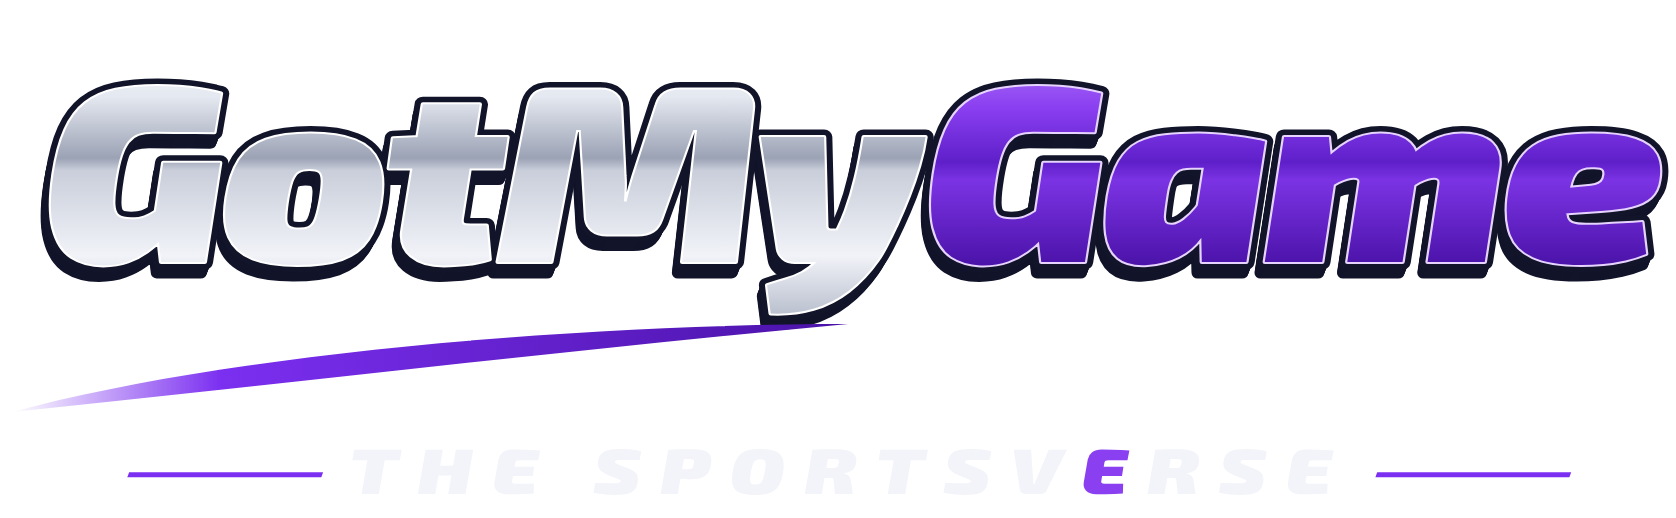
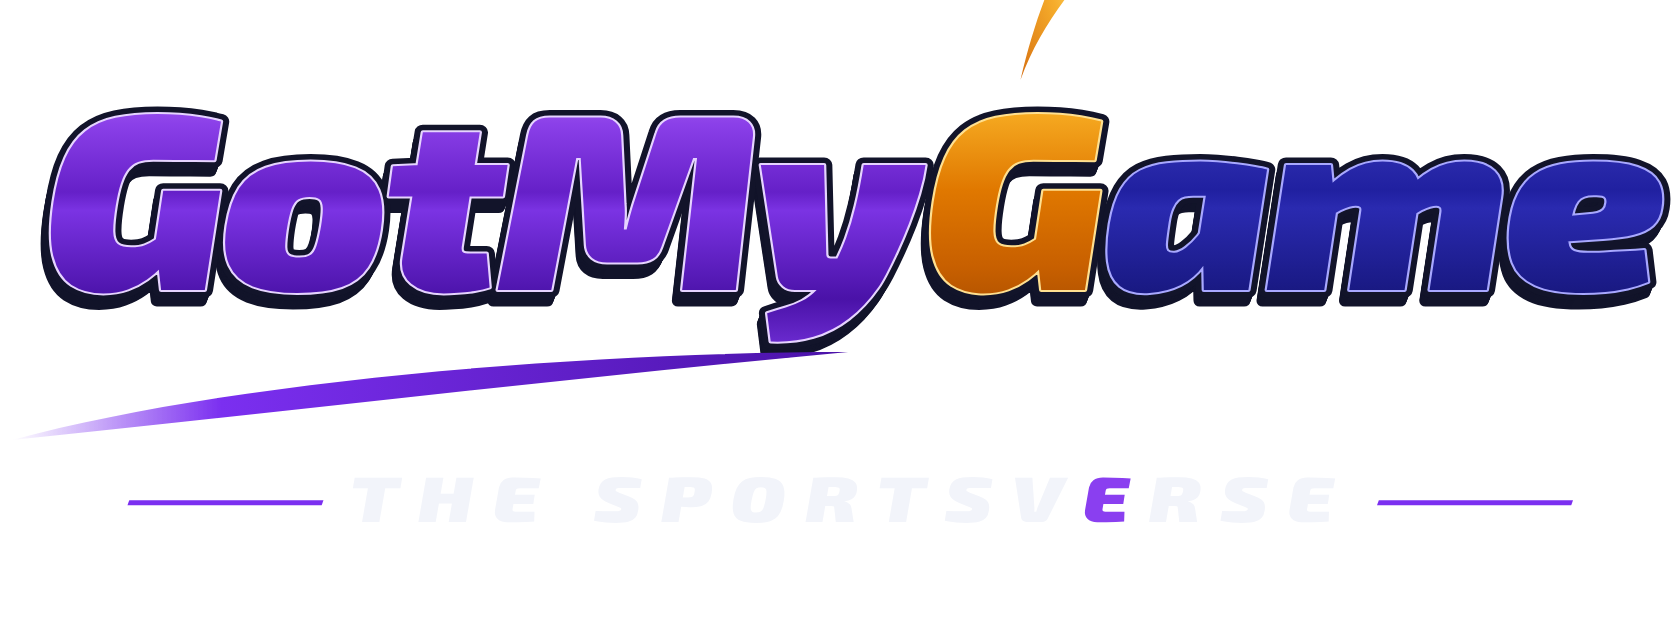
feat(brand): update GotMyGame wordmark to new brand palette
Replace silver-chrome "GotMy" + purple "Game" with the new palette:
purple "GotMy", amber/gold "G" with flame swoosh, deep indigo "ame".
Regenerates wordmark.png, wordmark-tagline.png and wordmark-tagline-dark.png
in both apps/app/assets/brand and apps/api/assets/brand.

Claude-Session: https://claude.ai/code/session_018FMP3LekTxaDrMcnwMMPbx

diff --git a/scripts/brand/wordmark.html b/scripts/brand/wordmark.html
@@ -6,16 +6,30 @@ text{font-family:'Exo2Black';font-weight:900;font-style:normal}
 </style></head><body>
 <svg id="s" xmlns="http://www.w3.org/2000/svg" width="1800" height="620" viewBox="0 0 1800 620">
 <defs>
- <linearGradient id="silver" x1="0" y1="0" x2="0" y2="1">
-  <stop offset="0" stop-color="#FFFFFF"/><stop offset=".28" stop-color="#E4E8F0"/><stop offset=".48" stop-color="#9BA2B4"/>
-  <stop offset=".52" stop-color="#C9CEDA"/><stop offset=".8" stop-color="#F1F3F8"/><stop offset="1" stop-color="#B8BECD"/>
- </linearGradient>
+ <!-- Purple gradient for "GotMy" -->
  <linearGradient id="purple" x1="0" y1="0" x2="0" y2="1">
-  <stop offset="0" stop-color="#C79BFF"/><stop offset=".32" stop-color="#8A3FF0"/><stop offset=".5" stop-color="#5E1FC9"/>
+  <stop offset="0" stop-color="#C97EFF"/><stop offset=".28" stop-color="#8A3FE8"/><stop offset=".5" stop-color="#6520C8"/>
   <stop offset=".56" stop-color="#7B33E3"/><stop offset=".85" stop-color="#4A12A8"/><stop offset="1" stop-color="#6B2BD0"/>
  </linearGradient>
- <linearGradient id="side" x1="0" y1="0" x2="0" y2="1"><stop offset="0" stop-color="#4B5066"/><stop offset="1" stop-color="#1B1E30"/></linearGradient>
+ <!-- Amber/gold gradient for "G" -->
+ <linearGradient id="amber" x1="0" y1="0" x2="0" y2="1">
+  <stop offset="0" stop-color="#FFE066"/><stop offset=".25" stop-color="#F5A820"/><stop offset=".5" stop-color="#E07800"/>
+  <stop offset=".75" stop-color="#C86000"/><stop offset="1" stop-color="#A04800"/>
+ </linearGradient>
+ <!-- Deep indigo gradient for "ame" -->
+ <linearGradient id="indigo" x1="0" y1="0" x2="0" y2="1">
+  <stop offset="0" stop-color="#6668D8"/><stop offset=".28" stop-color="#3535B8"/><stop offset=".5" stop-color="#2020A0"/>
+  <stop offset=".56" stop-color="#2A2AB0"/><stop offset=".85" stop-color="#181880"/><stop offset="1" stop-color="#222298"/>
+ </linearGradient>
+ <!-- Side extrusions -->
  <linearGradient id="pside" x1="0" y1="0" x2="0" y2="1"><stop offset="0" stop-color="#4A1AA0"/><stop offset="1" stop-color="#1E0B55"/></linearGradient>
+ <linearGradient id="aside" x1="0" y1="0" x2="0" y2="1"><stop offset="0" stop-color="#8B5000"/><stop offset="1" stop-color="#3D2000"/></linearGradient>
+ <linearGradient id="iside" x1="0" y1="0" x2="0" y2="1"><stop offset="0" stop-color="#1A1A70"/><stop offset="1" stop-color="#0A0A3A"/></linearGradient>
+ <!-- Flame gradient (radial, centre bright) -->
+ <radialGradient id="flame" cx="0.4" cy="0.6" r="0.6">
+  <stop offset="0" stop-color="#FFE87A"/><stop offset=".4" stop-color="#F5A820"/><stop offset="1" stop-color="#D06000"/>
+ </radialGradient>
+ <!-- Tagline swoosh -->
  <linearGradient id="swoosh" x1="0" y1="0" x2="1" y2="0"><stop offset="0" stop-color="#7B2FF0" stop-opacity="0"/><stop offset=".25" stop-color="#7B2FF0"/><stop offset="1" stop-color="#4A12A8"/></linearGradient>
 </defs>
 <g id="root"></g>
@@ -24,7 +38,7 @@ text{font-family:'Exo2Black';font-weight:900;font-style:normal}
 const NS='http://www.w3.org/2000/svg';
 const el=(n,a={},p)=>{const e=document.createElementNS(NS,n);for(const k in a)e.setAttribute(k,a[k]);p&&p.appendChild(e);return e};
 const root=document.getElementById('root');
-const SIZE=250, SX=1.1, X0=80, BASE=290, D=11; // D = extrusion depth
+const SIZE=250, SX=1.1, X0=80, BASE=290, D=11;
 const mk=(txt,x,face,side,outline,rim,parent)=>{
   const g=el('g',{transform:`translate(${x},${BASE}) scale(${SX},1)`},parent);
   const t=(o)=>{const e=el('text',{x:0,y:0,'font-size':SIZE,'letter-spacing':-5,...o},g);e.textContent=txt;return e};
@@ -36,14 +50,33 @@ const mk=(txt,x,face,side,outline,rim,parent)=>{
 window.build=async(variant,mode='full')=>{
   await document.fonts.load('900 300px Exo2Black');
   root.innerHTML='';
-  // measure
-  const probe=el('text',{'font-size':SIZE,'letter-spacing':-5,x:0,y:-999},root);probe.textContent='GotMy';
-  const w1=probe.getComputedTextLength()*SX;probe.remove();
-  const g1=mk('GotMy',X0,'silver','side','#12142A','#FFFFFF',root);
-  const g2=mk('Game',X0+w1+4,'purple','pside','#12142A','#E6D4FF',root);
-  const probe2=el('text',{'font-size':SIZE,'letter-spacing':-5,x:0,y:-999},root);probe2.textContent='Game';
-  const w2=probe2.getComputedTextLength()*SX;probe2.remove();
-  const right=X0+w1+4+w2;
+  // measure widths
+  const measure=(txt)=>{const p=el('text',{'font-size':SIZE,'letter-spacing':-5,x:0,y:-999},root);p.textContent=txt;const w=p.getComputedTextLength()*SX;p.remove();return w;};
+  const w1=measure('GotMy');
+  const wG=measure('G');
+  const w3=measure('ame');
+  // "GotMy" in purple
+  mk('GotMy',X0,'purple','pside','#12142A','#E6D4FF',root);
+  // "G" in amber/gold
+  const gx=X0+w1+4;
+  mk('G',gx,'amber','aside','#12142A','#FFE090',root);
+  // Flame swoosh above the G: a teardrop arc from upper-left of G curving over and tapering to a point
+  // Positioned relative to the G's top-right: BASE-SIZE ≈ 40 is the cap height
+  const capTop=BASE-SIZE*0.92; // roughly the top of uppercase letters
+  const gRight=gx+wG;         // right edge of G
+  const flX=gx+wG*0.55;       // flame starts near the G's right shoulder
+  const flY=capTop+20;
+  el('path',{
+    // A bezier-based teardrop/flame shape curving upward and to the right, then tapering to a tip
+    d:`M ${flX} ${flY}
+       C ${flX+40} ${flY-110}, ${flX+140} ${flY-170}, ${flX+180} ${flY-220}
+       C ${flX+200} ${flY-250}, ${flX+170} ${flY-270}, ${flX+130} ${flY-240}
+       C ${flX+80}  ${flY-190}, ${flX+30}  ${flY-130}, ${flX}     ${flY} Z`,
+    fill:'url(#flame)',stroke:'none',opacity:0.95
+  },root);
+  // "ame" in deep indigo
+  mk('ame',gx+wG+2,'indigo','iside','#12142A','#A8A8FF',root);
+  const right=gx+wG+2+w3;
   const total=right-X0, cx=(X0+right)/2;
   if(mode==='name') return {right,tw:0};
   el('path',{d:`M ${X0-30} ${BASE+150} C ${X0+200} ${BASE+88}, ${X0+560} ${BASE+62}, ${X0+w1*0.92} ${BASE+62} C ${X0+w1*0.6} ${BASE+88}, ${X0+260} ${BASE+120}, ${X0-30} ${BASE+150} Z`,fill:'url(#swoosh)'},root);
